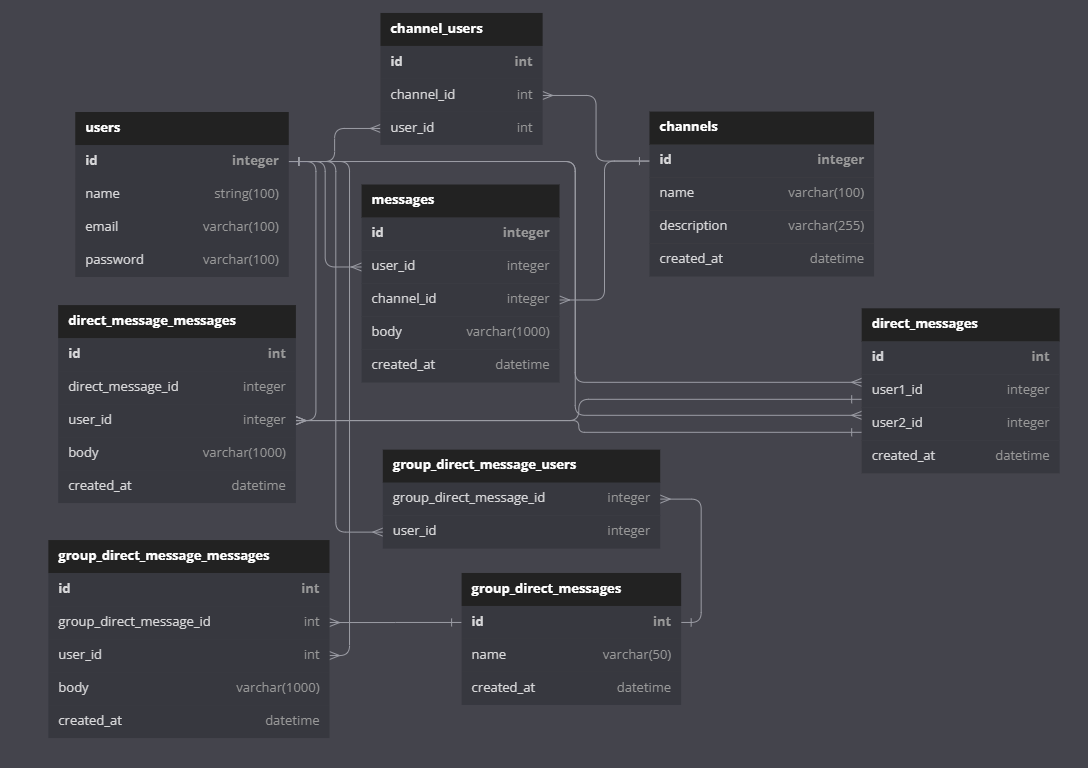
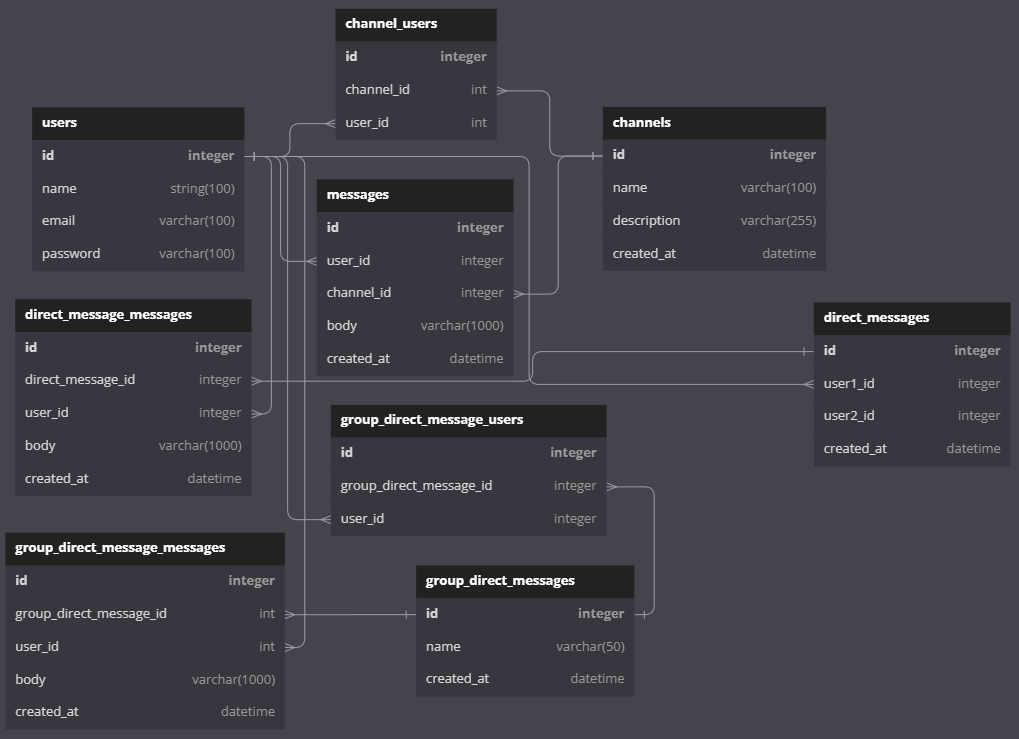
fixed dbdiagram and started on models

diff --git a/app/models/user.py b/app/models/user.py
@@ -1,7 +1,7 @@
 from .db import db, environment, SCHEMA, add_prefix_for_prod
 from werkzeug.security import generate_password_hash, check_password_hash
 from flask_login import UserMixin
-
+from .channel_users import ChannelUser
 
 class User(db.Model, UserMixin):
     __tablename__ = 'users'
@@ -10,9 +10,12 @@ class User(db.Model, UserMixin):
         __table_args__ = {'schema': SCHEMA}
 
     id = db.Column(db.Integer, primary_key=True)
-    username = db.Column(db.String(40), nullable=False, unique=True)
     email = db.Column(db.String(255), nullable=False, unique=True)
     hashed_password = db.Column(db.String(255), nullable=False)
+
+    # Relationships
+    messages = db.relationship("Message", back_populates='user')
+    channels = db.relationship("Channel", secondary=ChannelUser, back_populates='users')
 
     @property
     def password(self):
@@ -28,6 +31,5 @@ class User(db.Model, UserMixin):
     def to_dict(self):
         return {
             'id': self.id,
-            'username': self.username,
             'email': self.email
         }

diff --git a/app/models/message.py b/app/models/message.py
@@ -1,0 +1,27 @@
+from .db import db, environment, SCHEMA, add_prefix_for_prod
+
+#TODO Create message table
+
+class Message(db.Model):
+    __tablename__ = 'messages'
+
+    if environment == "production":
+        __table_args__ = {'schema': SCHEMA}
+
+    id = db.Column(db.Integer, primary_key=True)
+    user_id = db.Column(db.Integer, db.ForeignKey(add_prefix_for_prod('users.id'), ondelete='CASCADE'), nullable=False)
+    channel_id = db.Column(db.Integer, db.ForeignKey(add_prefix_for_prod('channels.id'), ondelete='CASCADE'), nullable=False)
+    body = db.Column(db.Text(), nullable=False)
+    created_at = db.Column(db.Date, default=datetime.now(tz=None), nullable=False)
+
+    user = db.relationship("User", back_populates='messages')
+    channel = db.relationship("Message", back_populates='messages')
+
+    def to_dict(self):
+        return {
+            'id': self.id,
+            'user_id': self.user_id,
+            'channel_id': self.channel_id,
+            'body': self.body,
+            'created_at': self.created_at
+        }

diff --git a/app/models/channel.py b/app/models/channel.py
@@ -1,0 +1,30 @@
+from .db import db, environment, SCHEMA, add_prefix_for_prod
+from datetime import datetime
+from .channel_users import ChannelUser
+
+#TODO Create Channel Model
+    #Relationships -> messages, channel users
+
+
+class Channel(db.Model):
+    __tablename__ = 'channels'
+
+    if environment == "production":
+        __table_args__ = {'schema': SCHEMA}
+
+    id = db.Column(db.Integer, primary_key=true)
+    name = db.Column(db.String(100), nullable=False)
+    description = db.Column(db.Text())
+    created_at = db.Column(db.DateTime, default=datetime.utcnow(), nullable=False)
+
+    users = db.relationship('User', secondary=ChannelUser, back_populates='channels')
+    messages = db.relationship('Message', back_populates='channel')
+
+    def to_dict(self):
+        return {
+            'id': self.id,
+            'name': self.name,
+            'description': self.description,
+            'created_at': self.created_at,
+            
+        }

diff --git a/app/models/channel_users.py b/app/models/channel_users.py
@@ -1,0 +1,11 @@
+from .db import db, environment, SCHEMA, add_prefix_for_prod
+
+class ChannelUser(db.Model):
+    __tablename__ = 'channel_users'
+
+    if environment == "production":
+        __table_args__ = {'schema': SCHEMA}
+
+    id = db.Column(Integer, primary_key=True)
+    channel_id = db.Column(Integer, ForeignKey(add_prefix_for_prod('channels.id')), nullable=False)
+    user_id = db.Column(Integer, ForeignKey(add_prefix_for_prod('users.id')), nullable=False)

diff --git a/slackLine-store-shape.md b/slackLine-store-shape.md
@@ -3,38 +3,28 @@ store = {
   session: {},
 
   channels: {
-    [channelId]: {
-      channelData,
-      Users: [usersData]
-    }
-  },
-
-  messages: {
-    [messageId]: {
-      messageData
-    }
-  }
-}
-```
-
-```js
-store = {
-  session: {},
-
-  channels: {
     // To get the data about all of the channels
     allChannels: {
       [channelId]: {
         channelData,
       },
-    }
+    },
 
-    userChannel: {},
     // Get a specific channel
-    singleChannel: {
-      channelData,
-      Users: [usersData],
-      Messages: [messagesData]
+    singleChannel: {channelData},
+  },
+
+  messages: {
+    channelMessages: {
+      [channelId]: [
+        /* Array of messages for channel Id */
+        ]
+    },
+    directMessages: {
+      // Same as channelMessages
+    },
+    groupDirectMessages: {
+      // Same as channelMessages
     }
   }
 }
